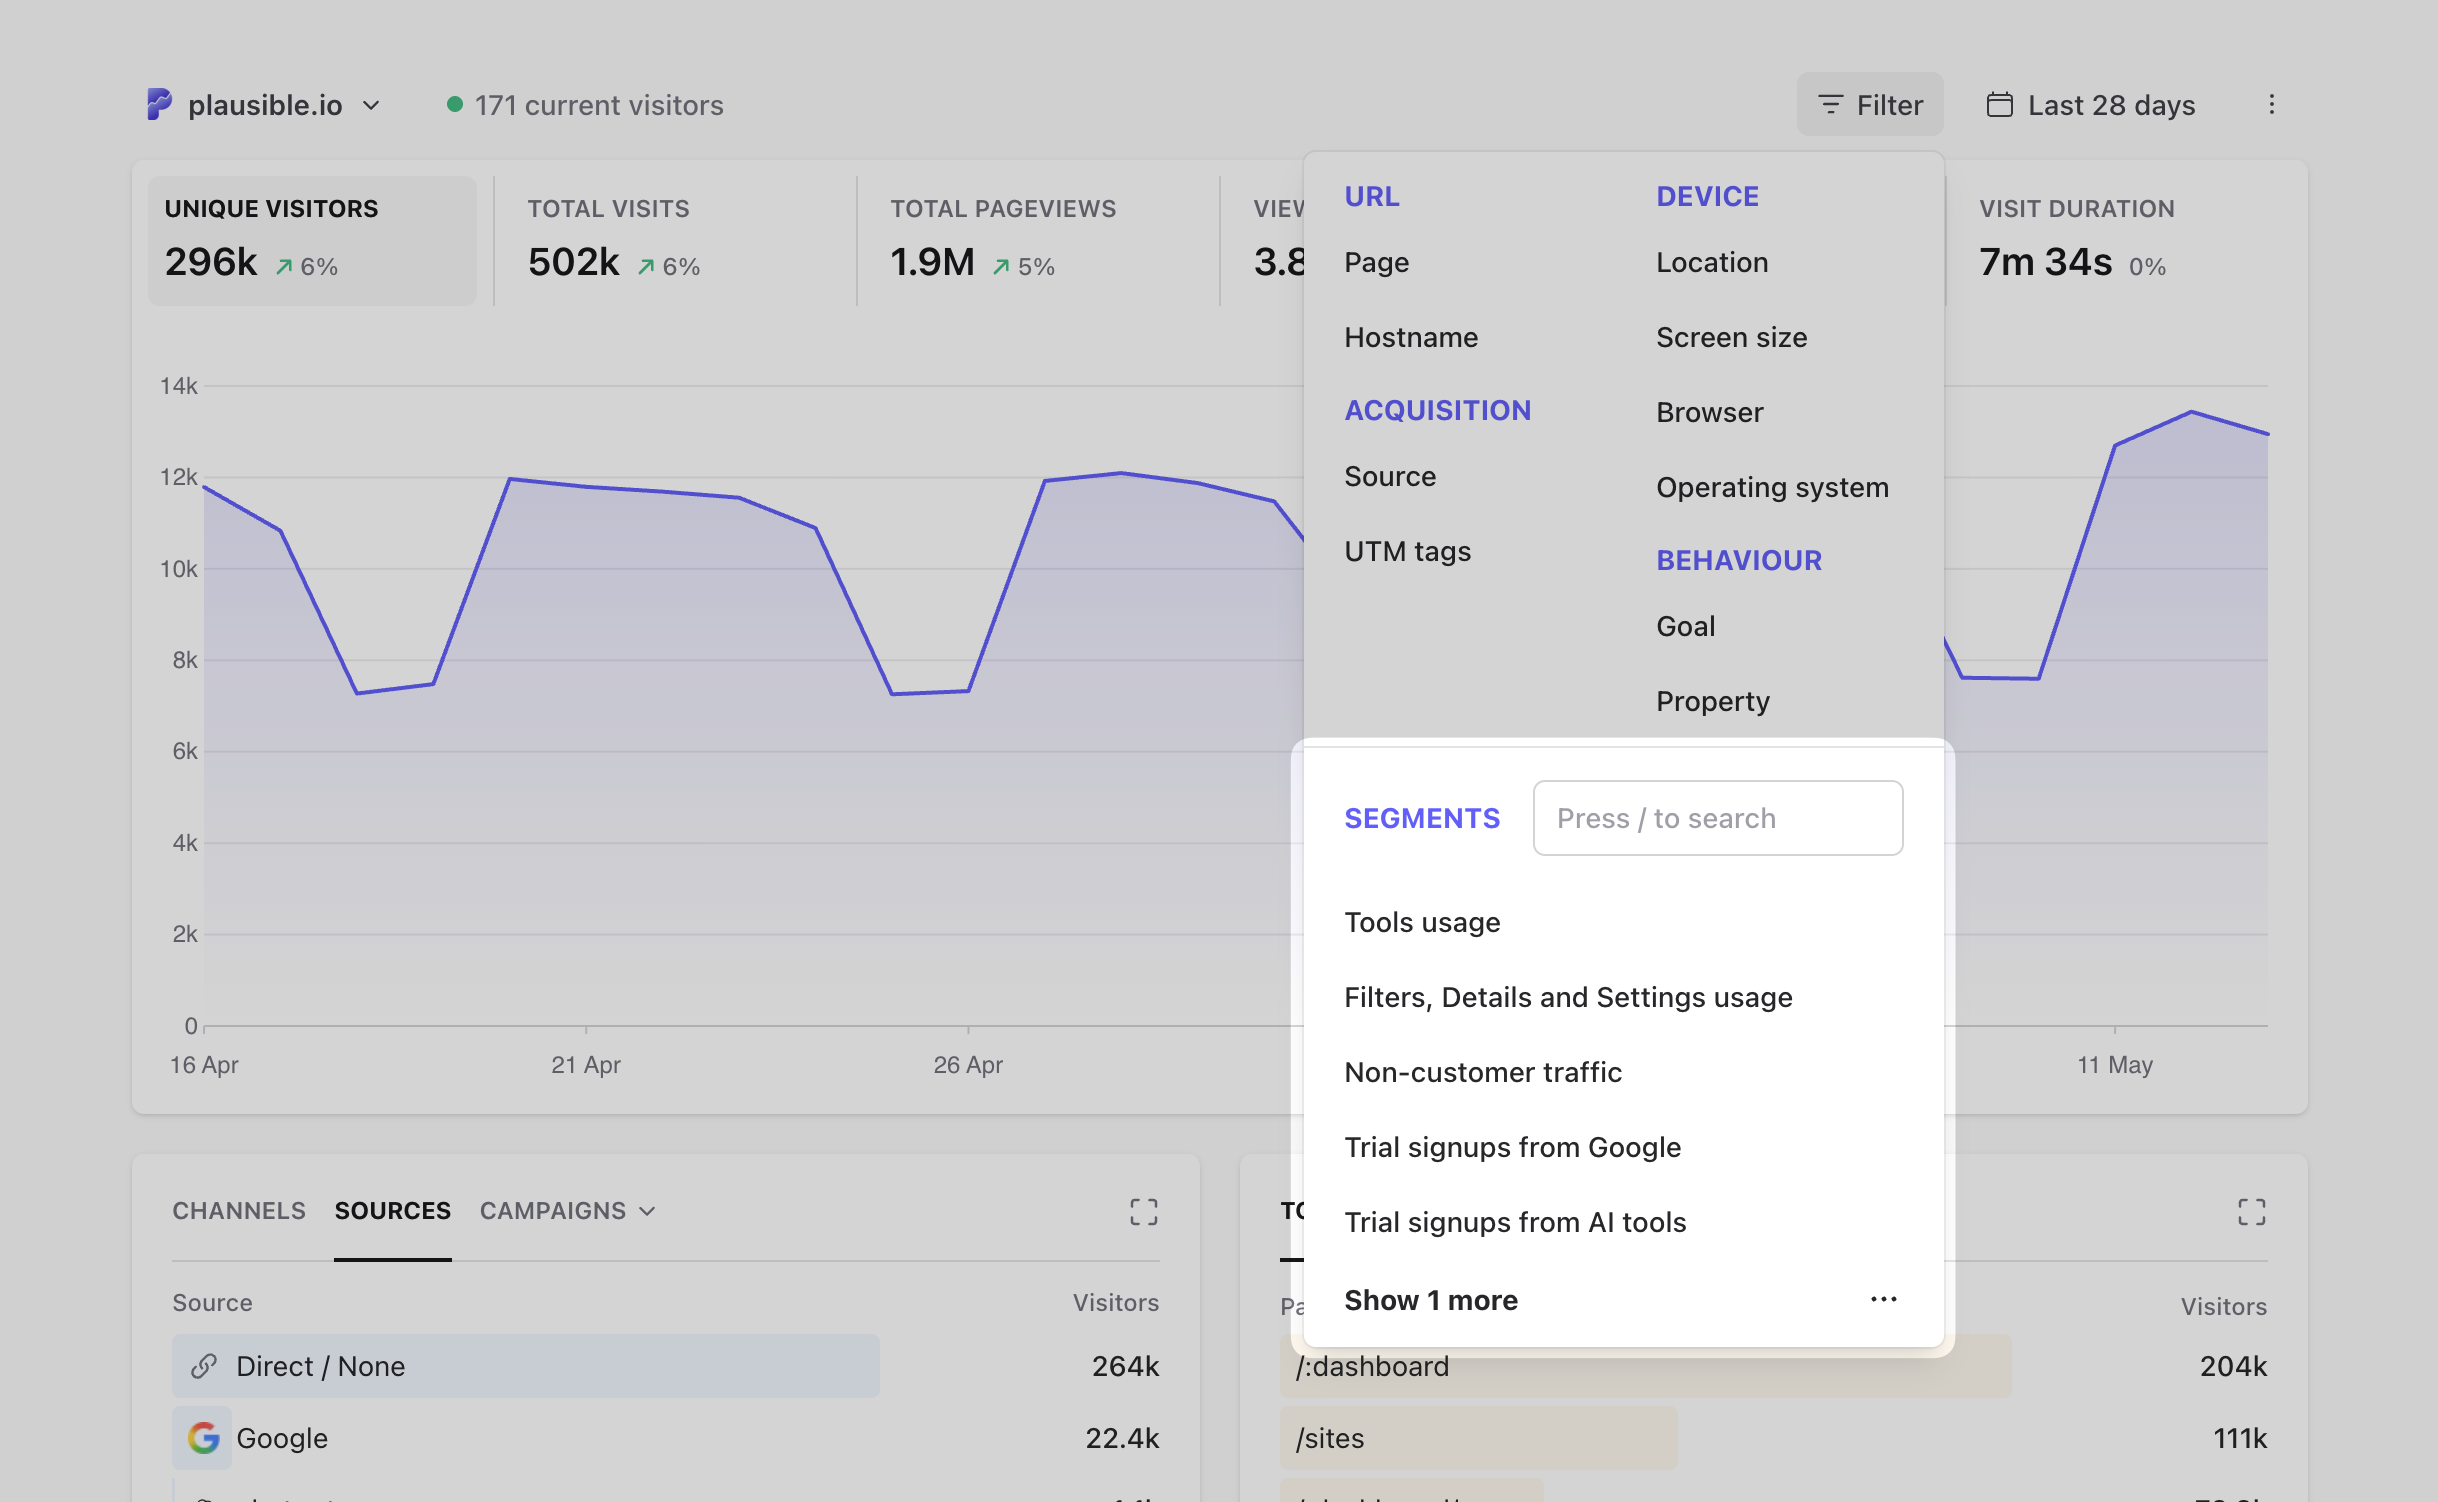
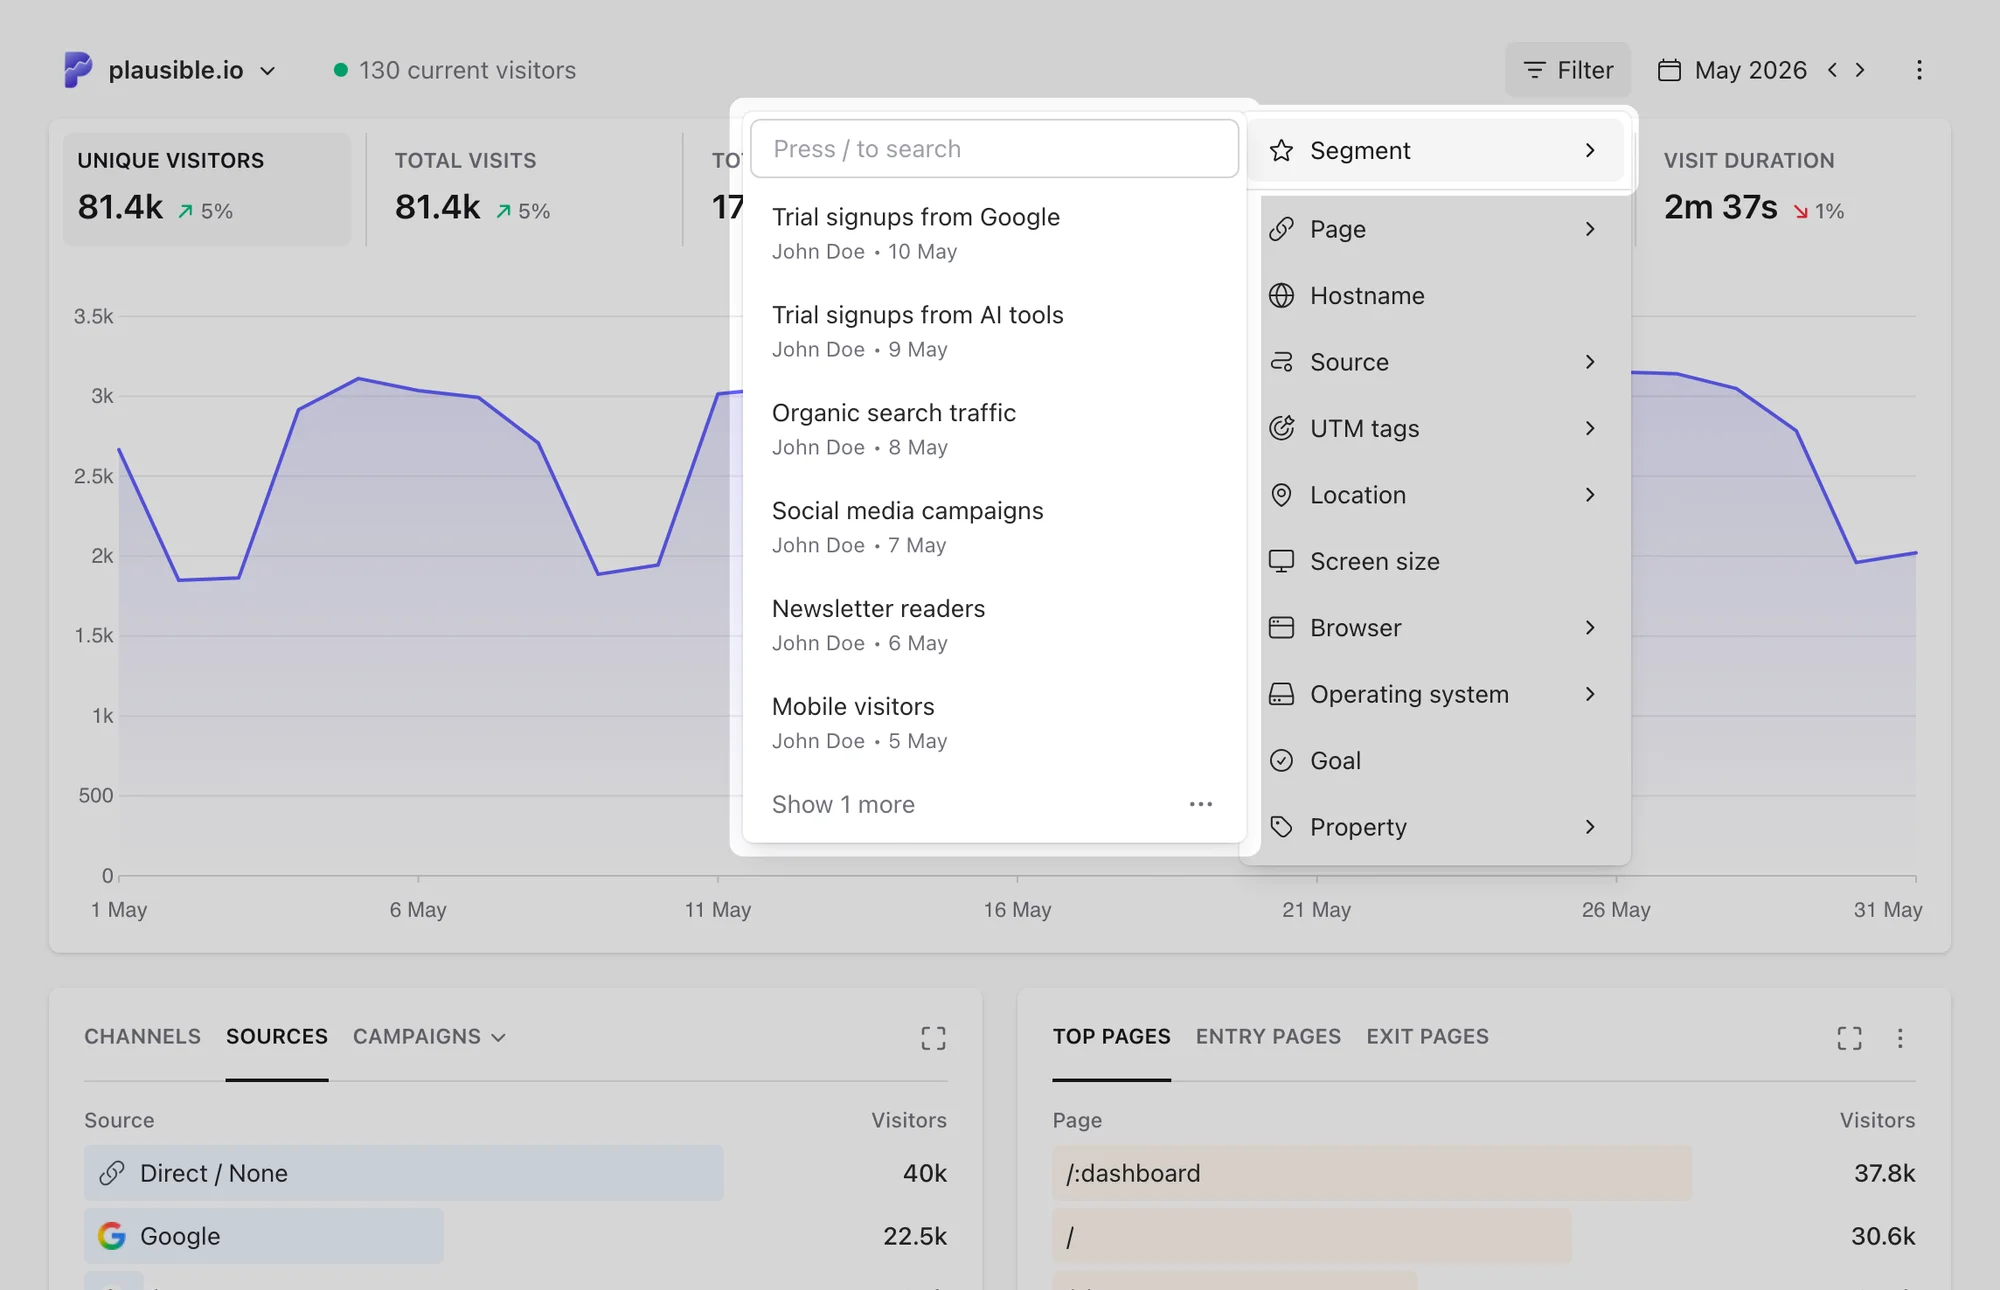
Update filtering screenshots

diff --git a/docs/top-referrers.md b/docs/top-referrers.md
@@ -14,7 +14,7 @@ These metrics help you assess traffic quality beyond raw visitor counts. A sourc
 Using [the **Filter** button on the top of your dashboard](filters-segments.md), you can filter the stats by multiple channels, sources or UTM tags simultaneously for more powerful traffic segmentation. You can also exclude traffic from a specific channel, referral source or UTM tag.
 
 <div class="browser">
-<img alt="Top Referrers - multiple filters" src={useBaseUrl('img/top-referrers-filtering-multiple-filters.png')} />
+<img alt="Top Referrers - multiple filters" src={useBaseUrl('img/v2/top-referrers-filtering-multiple-filters.webp')} />
 </div>
 
 ## Channels
@@ -48,7 +48,7 @@ We align our channel lists and definitions closely with Google Analytics to make
 Please note that channel groupings and definitions may evolve as the market changes. We will keep this list updated to reflect any adjustments.
 
 <div class="browser">
-<img alt="Channels tab in Plausible Analytics showing traffic breakdown by acquisition channel such as Organic Search, Organic Social and Direct" src={useBaseUrl('img/top-sources-channels.png')} />
+<img alt="Channels tab in Plausible Analytics showing traffic breakdown by acquisition channel such as Organic Search, Organic Social and Direct" src={useBaseUrl('img/v2/top-sources-channels.webp')} />
 </div>
 
 ## Sources
@@ -58,7 +58,7 @@ In the **Sources** tab, you can see the full list of your referral sources such 
 Note that browsers only send the domain name of the referrer and not the actual URL. If `thatblog.com/one-post/` sends you visitors, you will see `thatblog.com` in your sources list but won’t see the exact post URL itself. [See more here](https://plausible.io/blog/referrer-policy).
 
 <div class="browser">
-<img alt="Sources tab in Plausible Analytics listing referral sources such as Google, Facebook and Reddit ranked by unique visitors" src={useBaseUrl('img/top-sources-sources.png')} />
+<img alt="Sources tab in Plausible Analytics listing referral sources such as Google, Facebook and Reddit ranked by unique visitors" src={useBaseUrl('img/v2/top-sources-sources.webp')} />
 </div>
 
 ### No need to manually exclude unwanted sources
@@ -124,7 +124,7 @@ Filter your dashboard by a specific goal to see the number of conversions, conve
 Due to Plausible’s privacy-first approach, which avoids using cookies or long-term identifiers, conversion attribution relies on last-click attribution. This means the referral source of the visit that leads to the purchase is credited for the conversion.
 
 <div class="browser">
-<img alt="Plausible Analytics referral sources report filtered by a custom goal showing conversion rate per traffic source" src={useBaseUrl('img/custom-goal-conversion-rate.png')} />
+<img alt="Plausible Analytics referral sources report filtered by a custom goal showing conversion rate per traffic source" src={useBaseUrl('img/v2/custom-goal-conversion-rate.webp')} />
 </div>
 
 ## How to reduce the volume of dark traffic

diff --git a/docs/top-pages.md b/docs/top-pages.md
@@ -24,7 +24,7 @@ You can search for pages by using [the **Filter** button](filters-segments.md) o
 Do you want to group all your blog posts and analyze the traffic to the blog separately from the rest of your site? The **Page** menu within the filter button includes option for "contains". Put any specific keyword to group all of your pages that contain that keyword. The **Filter** button also allows you to segment the dashboard by grouping multiple unrelated pages at the same time.
 
 <div class="browser">
-<img alt="Top Pages - multiple filters" src={useBaseUrl('img/top-pages-filtering-multiple-filters.png')} />
+<img alt="Top Pages - multiple filters" src={useBaseUrl('img/v2/top-pages-filtering-multiple-filters.webp')} />
 </div>
 
 :::note

diff --git a/docs/countries.md b/docs/countries.md
@@ -18,7 +18,7 @@ Note that some VPN visits may not be recorded at all. If a VPN IP address falls 
 You can use the **Filter** button on the top of your dashboard to segment the traffic by multiple countries, regions or cities at the same time. This allows you to group specific geographical regions and display only that traffic.
 
 <div class="browser">
-<img alt="Countries - multiple filters" src={useBaseUrl('img/countries-filtering-multiple-filters.png')} />
+<img alt="Countries - multiple filters" src={useBaseUrl('img/v2/countries-filtering-multiple-filters.webp')} />
 </div>
 
 ## How to block traffic from specific countries

diff --git a/docs/devices.md b/docs/devices.md
@@ -12,7 +12,7 @@ You can click the expand icon in the top right to see the full list with additio
 You can use the **Filter** button on the top of your dashboard to segment the traffic by multiple devices at the same time. Filter button also allows you to filter out traffic from specific devices.
 
 <div class="browser">
-<img alt="Screen sizes - multiple filters" src={useBaseUrl('img/devices-filtering-multiple-filters.png')} />
+<img alt="Screen sizes - multiple filters" src={useBaseUrl('img/v2/devices-filtering-multiple-filters.webp')} />
 </div>
 
 ## Screen size

diff --git a/docs/subdomain-hostname-filter.md b/docs/subdomain-hostname-filter.md
@@ -57,7 +57,7 @@ We'll show you the list of all the hostnames we have recorded in the chosen time
 * You can segment by all hostnames that contain any particular word ("contains")
 
 <div class="browser">
-<img alt="List of subdomains" src={useBaseUrl('img/list-of-hostnames-and-subdomains.png')} />
+<img alt="List of subdomains" src={useBaseUrl('img/v2/list-of-hostnames-and-subdomains.webp')} />
 </div>
 
 :::tip Want to filter your traffic by a subfolder or directory?
